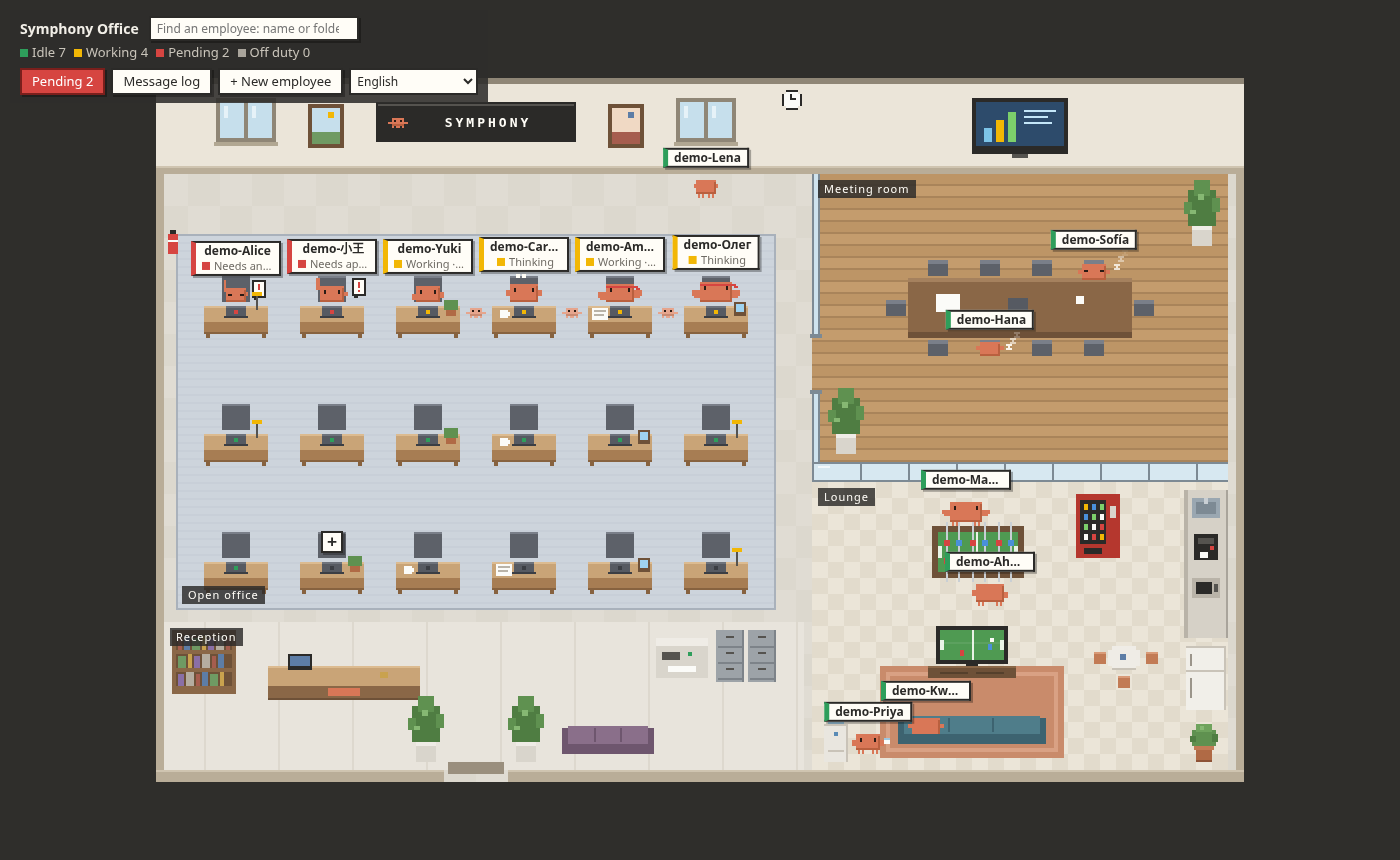
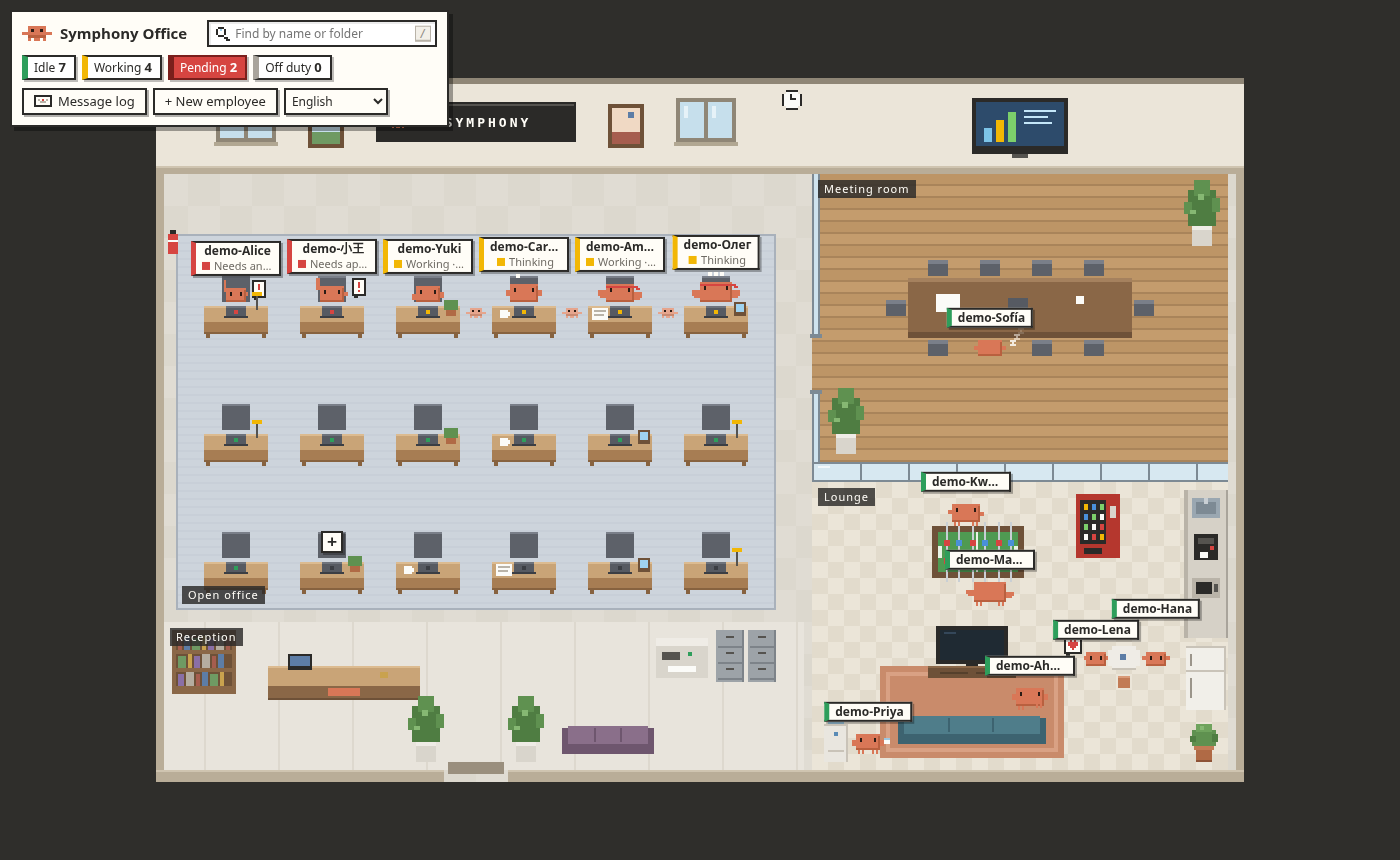
Give the HUD the office's pixel style, with state chips
- The HUD is a notice board like the name tags and cards: cream panel,
  dark border, hard shadow, the logo from the sign beside the title
- The counts by state are chips in the state colors; a click lights those
  employees up (the rest dims), a second click or Esc lets go
- While asks wait, the pending chip turns red, blinks and opens them; it
  replaces the separate pending button (its text key is gone)
- The search box gets a pixel magnifier and a "/" key hint, and a shorter
  placeholder in every language; the message log button gets a pixel
  envelope
- Tests: TestI18n opens the asks from the red chip, TestIdle lights up the
  idle employees with their chip
- Docs: CLAUDE.md, the 10 READMEs and a new office screenshot

diff --git a/web/office.html b/web/office.html
@@ -13,18 +13,35 @@
   body:lang(ko) { font-family:system-ui, "Apple SD Gothic Neo", "Malgun Gothic", "Noto Sans CJK KR", sans-serif; }
   canvas#office { position:fixed; inset:0; width:100vw; height:100vh; image-rendering:pixelated; }
   #labels { position:fixed; inset:0; pointer-events:none; }
-  #hud { position:fixed; top:10px; left:10px; z-index:3; background:rgba(47,46,43,.88); padding:6px 10px 8px; }
-  #hud h1 { margin:0; font-size:14px; font-weight:700; }
-  #hud .stats { margin-top:2px; color:#c9c4ba; }
-  #hud .btns { margin-top:6px; display:flex; gap:6px; flex-wrap:wrap; }
-  #hud select.lang { font:inherit; font-size:12px; background:#fffdf7; color:#2b2a28; border:2px solid #2b2a28; padding:0 2px; cursor:pointer; }
-  #hud .note { margin-top:6px; max-width:420px; color:#f0c674; line-height:1.5; }
+  /* the HUD: a notice board in the office's own pixel style */
+  #hud { position:fixed; top:10px; left:10px; z-index:3; background:#fffdf7; color:#2b2a28; border:2px solid #2b2a28;
+    box-shadow:4px 4px 0 rgba(0,0,0,.35); padding:8px 10px 10px; }
+  #hud .top { display:flex; align-items:center; gap:8px; }
+  #hud .logo { width:30px; height:15px; flex:none; image-rendering:pixelated; }
+  #hud h1 { margin:0 8px 0 0; font-size:15px; font-weight:800; white-space:nowrap; }
+  /* counts by state, as chips in the state colors; a click on one lights up those employees */
+  #hud .stats { margin-top:8px; display:flex; gap:6px; flex-wrap:wrap; color:#6f6b64; }
+  #hud .chip { font:inherit; white-space:nowrap; font-size:12px; line-height:1.6; cursor:pointer; background:#fff; color:#2b2a28; border:2px solid #2b2a28;
+    border-left:6px solid var(--c); padding:0 8px 0 6px; box-shadow:2px 2px 0 rgba(0,0,0,.25); }
+  #hud .chip b { font-size:13px; }
+  #hud .chip:hover { background:#f2efe8; }
+  #hud .chip.on { background:#2b2a28; color:#fffdf7; box-shadow:none; transform:translate(2px, 2px); }
+  #hud .chip.hot { background:#d64541; color:#fff; border-color:#7a1f1c; animation:nudge 1s steps(1) infinite; } /* asks wait for you */
+  @keyframes nudge { 50% { background:#e8605c; } }
+  #hud .btns { margin-top:8px; display:flex; gap:6px; flex-wrap:wrap; }
+  #hud select.lang { width:104px; font:inherit; font-size:12px; background:#fffdf7; color:#2b2a28; border:2px solid #2b2a28; padding:0 2px;
+    cursor:pointer; box-shadow:2px 2px 0 rgba(0,0,0,.3); }
+  #hud .note { margin-top:8px; max-width:420px; padding:4px 8px; background:#fff3cf; border:2px solid #c9961a; color:#6b4a00; line-height:1.5; }
+  .ico { display:inline-block; vertical-align:-1px; margin-right:6px; background:no-repeat center / contain; image-rendering:pixelated; }
+  .ico.mail { width:18px; height:12px; background-image:var(--ico-mail); }
   /* the search box, beside the title: matches show in a list below it, the rest of the office dims */
-  #hud .top { display:flex; align-items:center; gap:10px; }
-  #hud .find { position:relative; }
-  #find { width:210px; box-sizing:border-box; font:inherit; font-size:12px; background:#fffdf7; color:#2b2a28; border:2px solid #2b2a28;
-    padding:2px 6px; box-shadow:2px 2px 0 rgba(0,0,0,.3); }
+  #hud .find { position:relative; flex:1; min-width:196px; margin-left:4px; }
+  #find { width:100%; box-sizing:border-box; font:inherit; font-size:12px; color:#2b2a28; border:2px solid #2b2a28; padding:3px 26px;
+    background:#fff var(--ico-find) no-repeat 7px center / 14px 14px; box-shadow:inset 2px 2px 0 rgba(0,0,0,.08); image-rendering:pixelated; }
   #find:focus { outline:none; border-color:#f2b705; }
+  #hud .key { position:absolute; right:6px; top:50%; transform:translateY(-50%); pointer-events:none; font:11px/1.25 ui-monospace, monospace;
+    color:#8a867e; background:#f2efe8; border:1px solid #b9b3a8; border-bottom-width:2px; padding:0 4px; }
+  #find:focus + .key, #find:not(:placeholder-shown) + .key { display:none; } /* the shortcut, while the box is idle */
   #find-list { position:absolute; z-index:1; left:0; top:calc(100% + 4px); min-width:240px; max-width:380px; background:#fffdf7; color:#2b2a28;
     border:2px solid #2b2a28; box-shadow:4px 4px 0 rgba(0,0,0,.35); }
   #find-list[hidden] { display:none; }
@@ -32,12 +49,10 @@
   #find-list .hit.on { background:#f2b705; }
   #find-list .hit small { color:#6f6b64; margin-left:8px; }
   #find-list .none { padding:2px 8px; color:#8a867e; }
-  #hud .note code { display:block; margin-top:2px; padding:2px 6px; background:#1f1e1c; color:#fffdf7; user-select:all; word-break:break-all; }
+  #hud .note code { display:block; margin-top:4px; padding:2px 6px; background:#2b2a28; color:#fffdf7; user-select:all; word-break:break-all; }
   #log { position:fixed; left:16px; bottom:12px; z-index:3; font:12px/1.6 ui-monospace, monospace; color:#a9a49b; max-width:min(560px, calc(100vw - 32px)); pointer-events:none; }
   #log div { white-space:nowrap; overflow:hidden; text-overflow:ellipsis; }
   .dot { display:inline-block; width:8px; height:8px; margin-right:4px; vertical-align:0; }
-  #hud .stats .dot { margin-left:8px; }
-  #hud .stats .dot:first-child { margin-left:0; }
   button.px { background:#fffdf7; color:#2b2a28; border:2px solid #2b2a28; padding:2px 10px; font:inherit; cursor:pointer; box-shadow:2px 2px 0 rgba(0,0,0,.3); }
   button.px.primary { background:#2b2a28; color:#fffdf7; }
   button.px.alert { background:#d64541; color:#fff; border-color:#7a1f1c; }
@@ -124,12 +139,11 @@
 <canvas id="office"></canvas>
 <div id="labels"></div>
 <div id="hud">
-  <div class="top"><h1 data-i18n="office.title"></h1>
-    <div class="find"><input id="find" type="search" autocomplete="off" spellcheck="false" data-i18n-placeholder="search.placeholder" data-i18n-title="search.title"><div id="find-list" hidden></div></div></div>
+  <div class="top"><canvas class="logo" width="10" height="5"></canvas><h1 data-i18n="office.title"></h1>
+    <div class="find"><input id="find" type="search" autocomplete="off" spellcheck="false" data-i18n-placeholder="search.placeholder" data-i18n-title="search.title"><kbd class="key">/</kbd><div id="find-list" hidden></div></div></div>
   <div class="stats" id="stats" data-i18n="office.nobody"></div>
   <div class="btns">
-    <button class="px alert" id="open-asks" hidden></button>
-    <button class="px" id="open-msgs" data-i18n="office.messages"></button>
+    <button class="px" id="open-msgs"><i class="ico mail"></i><span data-i18n="office.messages"></span></button>
     <button class="px" id="new-emp" data-i18n="office.newEmployee" hidden></button>
   </div>
   <div class="note" id="launch-note" hidden></div>
@@ -1207,7 +1221,7 @@ function employeeItem(g, e, now, at) {
   }
   if (face < 0) pose.eyes = 'none'
   const body = online ? CLAWD : GRAY, shade = online ? CLAWD_SHADE : '#8f8a82'
-  const dim = findQ && !matchesFind(e, findQ), ring = (findQ && !dim) || now - (e.foundAt ?? -1e9) < 4000
+  const dim = filtering() && !picked(e), ring = (filtering() && !dim) || now - (e.foundAt ?? -1e9) < 4000
   return { y:y + 10, draw:() => {
     if (dim) g.globalAlpha = 0.3
     if (ring) drawRing(g, x, y, b, now)
@@ -1249,8 +1263,8 @@ function placeLabels(now) {
     setData(el, 'room', e.inside ? e.goal?.room ?? '' : '')
     setData(el, 'spot', e.inside ? e.goal?.id ?? '' : '')
     setData(el, 'moving', e.inside && e.moving ? '1' : '0')
-    const hit = !!findQ && matchesFind(e, findQ)
-    el.classList.toggle('dim', !!findQ && !hit)
+    const hit = filtering() && picked(e)
+    el.classList.toggle('dim', filtering() && !hit)
     el.classList.toggle('match', hit)
     el.classList.toggle('found', now - (e.foundAt ?? -1e9) < 3200)
     const doing = doingText(e)
@@ -1292,6 +1306,12 @@ function placeLabels(now) {
 // under the box; picking one (a click, or Enter for the highlighted one) is the same as clicking that employee.
 const findEl = document.getElementById('find'), findList = document.getElementById('find-list')
 let findQ = '', findSel = 0
+// a state chip in the HUD, clicked: its employees light up too ('idle' | 'busy' | 'waiting' | 'off'), until a second click
+let chipOn = null
+const groupOf = e => !isOnline(e) ? 'off' : e.s.state === 'idle' ? 'idle' : e.s.state === 'waiting' ? 'waiting' : 'busy'
+// with a search or a chip on, the employees they pick out get a ring and the rest dims
+const filtering = () => !!findQ || !!chipOn
+const picked = e => (!findQ || matchesFind(e, findQ)) && (!chipOn || groupOf(e) === chipOn)
 const lower = s => String(s ?? '').toLowerCase()
 // a folder matches by its last part ("symphony"), or by its whole path once the query has a slash in it
 const matchesFind = (e, q) => [e.acc.name, e.s?.title, ...[e.s?.cwd, e.acc.last?.dir].map(d => d && (/[\\/]/.test(q) ? d : base(d)))]
@@ -1333,11 +1353,36 @@ findList.addEventListener('mousedown', ev => { // mousedown, so the box keeps it
   ev.preventDefault()
   pickFound(emps.get(row.dataset.account))
 })
-addEventListener('keydown', ev => { // "/" jumps to the search box
+addEventListener('keydown', ev => { // "/" jumps to the search box; Esc lets go of a state chip
+  if (ev.key === 'Escape' && chipOn) { chipOn = null; renderStats() }
   if (ev.key !== '/' || ev.ctrlKey || ev.metaKey || ev.altKey || !asksModal.hidden || !dlg.hidden) return
   if (/^(INPUT|TEXTAREA|SELECT)$/.test(document.activeElement?.tagName)) return
   ev.preventDefault()
   findEl.focus()
+})
+
+// ================= state chips =================
+// The HUD's counts by state, one chip each in the state's color; the number stands out wherever the language puts it.
+const numbered = (key, n) => t(key, { n:'\u0001' }).split('\u0001').map(esc).join(`<b>${n}</b>`)
+const CHIPS = [['idle', 'idle', 'stats.idle'], ['busy', 'tool', 'stats.working'], ['waiting', 'waiting', 'stats.waiting'], ['off', 'ended', 'stats.offDuty']]
+// While asks wait for you, the pending chip turns red and opens them.
+function renderStats() {
+  const el = document.getElementById('stats')
+  if (!snapshot.accounts.length) { chipOn = null; el.textContent = t('office.nobody'); return }
+  const n = { idle:0, busy:0, waiting:0, off:0 }
+  for (const e of emps.values()) n[groupOf(e)]++
+  el.innerHTML = CHIPS.map(([group, state, key]) => {
+    const hot = group === 'waiting' && snapshot.asks.length > 0
+    return `<button class="chip${hot ? ' hot' : ''}${chipOn === group ? ' on' : ''}" data-group="${group}" style="--c:${STATE_COLOR[state]}" ` +
+      `title="${esc(hot ? t('asks.title', { n:snapshot.asks.length }) : t('stats.focusTitle'))}">${numbered(key, n[group])}</button>`
+  }).join('')
+}
+document.getElementById('stats').addEventListener('click', ev => {
+  const chip = ev.target.closest('.chip')
+  if (!chip) return
+  if (chip.classList.contains('hot')) return openAsks()
+  chipOn = chipOn === chip.dataset.group ? null : chip.dataset.group
+  renderStats()
 })
 
 // ================= data =================
@@ -1392,13 +1437,7 @@ function applySnapshot(snap) {
   renderAsks()
   first = false
 
-  const online = snap.accounts.map(sessionOf).filter(s => s && s.state !== 'ended')
-  const count = (...states) => online.filter(s => states.includes(s.state)).length
-  const stat = (state, key, n) => `${dot(state)}${esc(t(key, { n }))}`
-  document.getElementById('stats').innerHTML = snap.accounts.length
-    ? stat('idle', 'stats.idle', count('idle')) + stat('tool', 'stats.working', count('thinking', 'tool')) +
-      stat('waiting', 'stats.waiting', count('waiting')) + stat('ended', 'stats.offDuty', snap.accounts.length - online.length)
-    : esc(t('office.nobody'))
+  renderStats()
   if (cardFor) showCard(cardFor)
   if (!msgsPanel.hidden) renderMessages()
   if (!findList.hidden) renderFind()
@@ -1425,14 +1464,10 @@ function renderAsks() {
   if (asksFilter && asks.some(a => a.session === asksFilter)) asks = asks.filter(a => a.session === asksFilter)
   syncCards(document.getElementById('asks'), asks, askWho)
   document.getElementById('asks-title').textContent = t('asks.title', { n:snapshot.asks.length })
-  const btn = document.getElementById('open-asks')
-  btn.hidden = !snapshot.asks.length
-  btn.textContent = t('asks.button', { n:snapshot.asks.length })
   if (!snapshot.asks.length) asksModal.hidden = true
 }
 function openAsks(session = null) { asksFilter = session; renderAsks(); if (snapshot.asks.length) asksModal.hidden = false }
 document.getElementById('asks-later').onclick = () => { asksModal.hidden = true }
-document.getElementById('open-asks').onclick = () => openAsks()
 asksModal.addEventListener('click', ev => { if (ev.target === asksModal) asksModal.hidden = true })
 
 // ================= message log =================
@@ -1677,6 +1712,14 @@ for (const [key, text] of [['work', t('room.work')], ['meeting', t('room.meeting
   roomEls[key] = el
 }
 rooms.sign = {}
+// the HUD's pixel art, drawn with the office's own helpers: the logo from the sign, a magnifier, an envelope
+drawMini(document.querySelector('#hud .logo').getContext('2d'), 0, 0, CLAWD, CLAWD_SHADE)
+const pixelArt = (w, h, draw) => { const c = document.createElement('canvas'); c.width = w; c.height = h; draw(c.getContext('2d')); return `url(${c.toDataURL()})` }
+const MAGNIFIER = ['.XXX...', 'X.o.X..', 'X...X..', 'X...X..', '.XXX...', '....XX.', '.....XX']
+document.documentElement.style.setProperty('--ico-find', pixelArt(7, 7, g => MAGNIFIER.forEach((row, y) => [...row].forEach((c, x) => {
+  if (c !== '.') rect(g, x, y, 1, 1, c === 'X' ? '#2b2a28' : '#9fd3f0')
+}))))
+document.documentElement.style.setProperty('--ico-mail', pixelArt(9, 6, g => drawEnvelope(g, 0, 0)))
 const addBtn = document.createElement('button')
 addBtn.className = 'seat-add'
 addBtn.textContent = '+'

diff --git a/e2e/idle_test.go b/e2e/idle_test.go
@@ -125,6 +125,22 @@ func TestIdle(t *testing.T) {
 	}
 	screenshot(t, office, "idle-wander.png")
 
+	// the idle chip in the HUD lights up the idle ones and dims alice, who works; a second click lets go
+	do(t, office, 10*time.Second, chromedp.Click(chromedp.CSS(`#stats .chip[data-group=idle]`)))
+	waitUntil(t, 10*time.Second, "the idle chip lights up the idle employees", func() bool {
+		all := tags()
+		for _, n := range idle {
+			if !strings.Contains(all[n].Classes, "match") {
+				return false
+			}
+		}
+		return strings.Contains(all["alice"].Classes, "dim") && strings.Contains(all["gina"].Classes, "dim")
+	}, show)
+	do(t, office, 10*time.Second, chromedp.Click(chromedp.CSS(`#stats .chip[data-group=idle]`)))
+	waitUntil(t, 10*time.Second, "a second click on the chip lights everyone again", func() bool {
+		return !strings.Contains(tags()["alice"].Classes, "dim")
+	}, show)
+
 	// ---------- 3. a click calls bob back: his card opens, he walks to his desk and stays there ----------
 	clickLabel(t, office, b.account("bob").ID)
 	do(t, office, 10*time.Second, chromedp.WaitVisible(chromedp.CSS(`#card`)))

diff --git a/e2e/i18n_test.go b/e2e/i18n_test.go
@@ -104,7 +104,10 @@ func checkOffice(t *testing.T, b *testBridge, browser context.Context, lang stri
 	}
 	read()
 	screenshot(t, office, "i18n-"+lang+"-asks.png")
-	do(t, office, 10*time.Second, chromedp.Click(chromedp.CSS(`#asks-later`)), chromedp.Click(chromedp.CSS(`#open-msgs`)), chromedp.WaitVisible(chromedp.CSS(`#msgs-panel`)))
+	// "Later" closes the popup; the red pending chip in the HUD opens it again
+	do(t, office, 10*time.Second, chromedp.Click(chromedp.CSS(`#asks-later`)), chromedp.WaitNotVisible(chromedp.CSS(`#asks-modal`)),
+		chromedp.Click(chromedp.CSS(`#stats .chip.hot[data-group=waiting]`)), chromedp.WaitVisible(chromedp.CSS(`#asks-modal`)),
+		chromedp.Click(chromedp.CSS(`#asks-later`)), chromedp.Click(chromedp.CSS(`#open-msgs`)), chromedp.WaitVisible(chromedp.CSS(`#msgs-panel`)))
 	read()
 	do(t, office, 10*time.Second, chromedp.Click(chromedp.CSS(`#msgs-panel .close`)))
 	for _, name := range []string{"bob", "carol"} { // an online card and an offline one

diff --git a/CLAUDE.md b/CLAUDE.md
@@ -22,7 +22,7 @@ The bridge is Go (standard library only; the e2e tests also use chromedp), the m
 - `web/`: `office.html` (`/`, the pixel office), `approve.html` (`/approve`, a simpler approval page), `asks.js` (the ask cards both share), `i18n.js` (language choice, `t()`, the language picker) and `locales/<lang>.json` (the pages' translations), all built into the bridge binary.
 - Translations: 10 languages (en, zh-CN, zh-TW, ja, ko, es, fr, de, pt-BR, ru), English is the fallback. Every catalog has the same keys as its `en.json` and the same `{placeholders}`, which `go test ./internal/i18n/` checks. User-visible text never sits in code: the pages use `t('key')` or `data-i18n`, the bridge's log lines use `i18n.T`, and the bridge sends codes to the page. Code comments are English.
 - The office: a proper company layout, with an open office (rows of 6 desks, at least 3 rows, full rows even for a small team, more rows as it grows), a glass meeting room (its door faces the corridor), a lounge (counter, fridge, vending machine, foosball, a TV in front of the sofa, a round table, a water cooler) and a reception; each account has a fixed desk; state colors are idle green, working yellow, waiting for an approval or answer red, off duty gray; size follows the model (haiku < sonnet < opus < fable), muscles follow the effort (a red headband at max); messages between sessions get a flying envelope, a bubble and the message log; pending asks open a popup and are handled right there.
-- Idle life (`office.html`, "idle life"): an idle employee stays at its desk for 20 seconds (phone or games), then wanders: TV on the lounge sofa, coffee, the vending machine, the water cooler, a window, the bookshelf, the printer, minding reception, or in pairs foosball, tag or a chat at the round table; from 2.5 minutes it naps (mostly hiding in the meeting room) and wakes now and then. It all counts from the session's `stateSince`, and pairs form on the clock, so a reload changes nothing. Work or a pending ask sends it back to its desk; so does a click on it (its card opens too), and then it stays there until its next turn. Employees walk on a small graph of walkways and spots (`buildPlaces`); away from the desk the name tag shows just the name and moves out of the way of other tags. The search box beside the title finds employees by name, session name or folder (`/` focuses it); picking one is the same as clicking it.
+- Idle life (`office.html`, "idle life"): an idle employee stays at its desk for 20 seconds (phone or games), then wanders: TV on the lounge sofa, coffee, the vending machine, the water cooler, a window, the bookshelf, the printer, minding reception, or in pairs foosball, tag or a chat at the round table; from 2.5 minutes it naps (mostly hiding in the meeting room) and wakes now and then. It all counts from the session's `stateSince`, and pairs form on the clock, so a reload changes nothing. Work or a pending ask sends it back to its desk; so does a click on it (its card opens too), and then it stays there until its next turn. Employees walk on a small graph of walkways and spots (`buildPlaces`); away from the desk the name tag shows just the name and moves out of the way of other tags. The HUD (top left) is a notice board in the same pixel style: the logo and title, the search box, which finds employees by name, session name or folder (`/` focuses it; picking one is the same as clicking it), chips with the counts by state (a click lights those employees up, a second click or Esc lets go; while asks wait, the pending chip turns red and opens them), the message log, new employee and the language picker.
 - Starting sessions from the page: the "+" on an empty desk hires a new employee; "Start work" on an off-duty employee's card brings them back (last folder and options filled in, same seat). The bridge starts claude in a tmux session (`sym-<id>`) in that folder with the account's token, the bridge's address and the page's language (`SYMPHONY_LANG`); the mod is the installed one (`-mod` development mode adds `--plugin-dir`); the bridge answers "trust this folder" for new folders. The bridge checks the mod with `claude plugin list --json` (`Mod` in `launch.go`); without it, starting from the page is off and the page shows the install command (reload after installing, no bridge restart).
 - The bridge only accepts this machine's Host and refuses writes that other sites send through the browser (the launch endpoint runs commands on this machine). The pages have no login yet; don't bind to a non-local address.
 - `cmd/bridge`, `cmd/demo` (creates demo accounts and made-up activity). `e2e/`: end-to-end acceptance with real Claude sessions.

diff --git a/README.ru.md b/README.ru.md
@@ -10,7 +10,7 @@
 
 - **Подтверждения в браузере**: запросы разрешений (запуск команд, правка файлов) и вопросы AskUserQuestion приходят на веб-страницу. Если bridge не запущен или не знает учётную запись, сеанс, как обычно, спрашивает в терминале и никогда не зависает.
 - **Пиксельный офис**: каждый сеанс — это сотрудник со своим постоянным местом. Зелёный — без дела, жёлтый — работает, красный — ждёт вашего разрешения или ответа, серый — не на работе. Сотрудники без дела сначала сидят на месте в телефоне или играют, потом идут гулять по офису: смотрят телевизор на диване в зоне отдыха, играют в настольный футбол и в догонялки, болтают за круглым столом, наливают кофе, смотрят в окно; со временем уходят вздремнуть, чаще всего прячутся в переговорной. Размер персонажа зависит от модели, а мускулатура — от глубины размышлений.
-- **Найти и позвать обратно**: щёлкните по сотруднику без дела — он вернётся на своё место и будет ждать там следующей задачи; поле поиска рядом с заголовком находит сотрудников по имени или папке (клавиша `/` переводит в него).
+- **Найти и позвать обратно**: щёлкните по сотруднику без дела — он вернётся на своё место и будет ждать там следующей задачи; поле поиска рядом с заголовком находит сотрудников по имени или папке (клавиша `/` переводит в него), а щелчок по счётчику под заголовком (без дела, работают, ожидают, не на работе) выделяет всех сотрудников в этом состоянии.
 - **Сообщения между сеансами**: когда сеансы пишут друг другу (SendMessage), через офис пролетает конверт, а сами сообщения сохраняются в журнале сообщений.
 - **Запуск сеансов со страницы**: нажмите «+» на свободном месте, чтобы нанять нового сотрудника, и выберите папку, модель, глубину размышлений и режим разрешений; нажмите «За работу» на карточке сотрудника, который не на работе, — и он вернётся на своё место.
 - **10 языков**: English, 简体中文, 繁體中文, 日本語, 한국어, Español, Français, Deutsch, Português (Brasil) и Русский. Страница берёт язык браузера, а в её левом верхнем углу есть переключатель языка; сообщения bridge выводятся на языке системы (или на заданном через `-lang`), а сообщения mod — на языке страницы, с которой запустили сеанс.

diff --git a/README.fr.md b/README.fr.md
@@ -10,7 +10,7 @@ Réunissez une équipe de sessions Claude Code dans un bureau en pixel art : voy
 
 - **Approbations dans le navigateur** : les demandes d’autorisation (exécuter des commandes, modifier des fichiers) et les questions AskUserQuestion arrivent dans la page web. Si le bridge ne tourne pas ou ne connaît pas le compte, la session revient au terminal comme d’habitude et ne reste jamais bloquée.
 - **Un bureau en pixel art** : chaque session est un employé à un poste fixe. Vert : disponible ; jaune : occupé ; rouge : attend votre autorisation ou votre réponse ; gris : hors service. Les employés désœuvrés traînent d’abord à leur poste avec leur téléphone ou leurs jeux, puis partent se promener : télé sur le canapé de l’espace détente, baby-foot, partie de chat, discussion à la table ronde, café, coup d’œil par la fenêtre ; au bout d’un moment, ils font la sieste, souvent cachés dans la salle de réunion. La taille du personnage dépend du modèle, et ses muscles de l’effort de réflexion.
-- **Retrouver quelqu’un et le rappeler** : cliquez sur un employé disponible et il retourne à son poste (il y reste jusqu’à sa prochaine tâche) ; le champ de recherche à côté du titre trouve les employés par nom ou par dossier (touche `/` pour y aller).
+- **Retrouver quelqu’un et le rappeler** : cliquez sur un employé disponible et il retourne à son poste (il y reste jusqu’à sa prochaine tâche) ; le champ de recherche à côté du titre trouve les employés par nom ou par dossier (touche `/` pour y aller), et un clic sur un compteur sous le titre (disponible, occupé, en attente, hors service) fait ressortir tous les employés dans cet état.
 - **Messages entre sessions** : quand des sessions s’envoient des messages (SendMessage), une enveloppe traverse le bureau, et le journal des messages les conserve.
 - **Démarrer des sessions depuis la page** : cliquez sur le « + » d’un poste libre pour embaucher un nouvel employé, puis choisissez le dossier, le modèle, l’effort de réflexion et le mode d’autorisation ; cliquez sur « Au travail ! » dans la fiche d’un employé hors service pour le faire revenir à son poste.
 - **10 langues** : English, 简体中文, 繁體中文, 日本語, 한국어, Español, Français, Deutsch, Português (Brasil) et Русский. La page suit la langue de votre navigateur et propose un sélecteur de langue en haut à gauche ; les messages du bridge suivent la langue de votre système (ou `-lang`), et ceux du mod suivent la page qui a démarré la session.

diff --git a/README.es.md b/README.es.md
@@ -10,7 +10,7 @@ Pon a trabajar a un equipo de sesiones de Claude Code en una oficina en pixel ar
 
 - **Aprobaciones en el navegador**: las solicitudes de permiso (para ejecutar comandos o editar archivos) y las preguntas de AskUserQuestion llegan a la página web. Si el bridge no está en marcha o no reconoce la cuenta, la sesión vuelve a la terminal como siempre y nunca se queda colgada.
 - **Una oficina en pixel art**: cada sesión es un empleado con su propio puesto fijo. El verde indica que está libre; el amarillo, que está trabajando; el rojo, que espera tu aprobación o tu respuesta, y el gris, que está fuera de servicio. Si no tienen nada que hacer, primero se quedan en su puesto con el teléfono o los videojuegos y luego se van de paseo: ven la tele en el sofá de la zona de descanso, juegan al futbolín o a pillar, charlan en la mesa redonda, se sirven un café o miran por la ventana; al rato se echan una siesta, casi siempre escondidos en la sala de reuniones. El tamaño del personaje depende del modelo, y sus músculos, del esfuerzo de razonamiento.
-- **Encuentra a cualquiera y llámalo**: haz clic en un empleado libre y volverá a su puesto (y se quedará allí hasta su siguiente tarea); el buscador junto al título encuentra empleados por nombre o carpeta (pulsa `/` para ir a él).
+- **Encuentra a cualquiera y llámalo**: haz clic en un empleado libre y volverá a su puesto (y se quedará allí hasta su siguiente tarea); el buscador junto al título encuentra empleados por nombre o carpeta (pulsa `/` para ir a él), y un clic en un contador bajo el título (libre, trabajando, pendiente, fuera de servicio) resalta a todos los que están en ese estado.
 - **Mensajes entre sesiones**: cuando las sesiones se envían mensajes (SendMessage), un sobre cruza la oficina volando y el registro de mensajes los guarda.
 - **Abre sesiones desde la página**: haz clic en el "+" de un puesto vacío para contratar a alguien nuevo y elige la carpeta, el modelo, el esfuerzo de razonamiento y el modo de permisos; en la ficha de alguien que está fuera de servicio, haz clic en "A trabajar" para que vuelva a su mismo puesto.
 - **10 idiomas**: English, 简体中文, 繁體中文, 日本語, 한국어, Español, Français, Deutsch, Português (Brasil) y Русский. La página usa el idioma de tu navegador y tiene un selector de idioma en la esquina superior izquierda; los mensajes del bridge usan el idioma de tu sistema (o el que indiques con `-lang`), y los del mod, el de la página que abrió la sesión.

diff --git a/README.ko.md b/README.ko.md
@@ -10,7 +10,7 @@ Claude Code 세션들을 한 팀으로 꾸려 픽셀 아트 사무실에 앉혀 
 
 - **브라우저에서 승인**: 권한 승인(명령 실행, 파일 수정)과 AskUserQuestion 질문이 웹 페이지로 넘어옵니다. bridge가 꺼져 있거나 계정을 알아보지 못하면 세션은 평소처럼 터미널에서 처리하므로, 멈춰 버리는 일은 없습니다.
 - **픽셀 아트 사무실**: 세션 하나하나가 정해진 자리에 앉은 직원입니다. 초록은 쉬는 중, 노랑은 작업 중, 빨강은 여러분의 승인이나 답변을 기다리는 중, 회색은 퇴근입니다. 쉬는 직원은 처음엔 자리에서 휴대폰을 보거나 게임을 하다가 곧 사무실을 돌아다닙니다. 휴게실 소파에서 TV 보기, 테이블 축구, 술래잡기, 원탁에서 수다, 커피, 창밖 구경을 하고, 한참 지나면 낮잠을 자러 가는데 주로 회의실에 숨어서 잡니다. 캐릭터의 덩치는 모델을, 근육은 사고 강도를 따라갑니다.
-- **찾아서 바로 불러오기**: 쉬는 직원을 클릭하면 자기 자리로 돌아가 다음 일이 올 때까지 기다립니다. 제목 옆 검색창에서 이름이나 폴더로 직원을 찾을 수 있습니다(`/` 키로 바로 이동).
+- **찾아서 바로 불러오기**: 쉬는 직원을 클릭하면 자기 자리로 돌아가 다음 일이 올 때까지 기다립니다. 제목 옆 검색창에서 이름이나 폴더로 직원을 찾을 수 있습니다(`/` 키로 바로 이동). 제목 아래 상태 칩(쉬는 중, 작업 중, 대기 중, 퇴근)을 클릭하면 그 상태의 직원이 모두 강조됩니다.
 - **세션 간 메시지**: 세션끼리 메시지를 보내면(SendMessage) 편지 봉투가 사무실을 가로질러 날아가고, 메시지 기록에 남습니다.
 - **페이지에서 세션 시작**: 빈자리의 "+"를 눌러 새 직원을 뽑고 폴더, 모델, 사고 강도, 권한 모드를 고르세요. 퇴근한 직원의 카드에서 "출근"을 누르면 원래 자리로 돌아옵니다.
 - **10개 언어**: English, 简体中文, 繁體中文, 日本語, 한국어, Español, Français, Deutsch, Português (Brasil), Русский를 지원합니다. 페이지는 브라우저 언어를 따르고 왼쪽 위에서 언어를 바꿀 수 있습니다. bridge 메시지는 시스템 언어(또는 `-lang`)를, mod 메시지는 그 세션을 시작한 페이지의 언어를 따릅니다.

diff --git a/README.de.md b/README.de.md
@@ -10,7 +10,7 @@ Setz ein Team aus Claude-Code-Sitzungen in ein Pixel-Art-Büro: Du siehst auf ei
 
 - **Freigaben im Browser**: Berechtigungsanfragen (Befehle ausführen, Dateien bearbeiten) und Fragen per AskUserQuestion landen auf der Webseite. Läuft die Bridge nicht oder kennt sie das Konto nicht, fällt die Sitzung wie gewohnt aufs Terminal zurück und bleibt nie hängen.
 - **Ein Pixel-Art-Büro**: Jede Sitzung ist ein Mitarbeiter mit festem Platz. Grün ist frei, Gelb bei der Arbeit, Rot wartet auf deine Freigabe oder Antwort, Grau hat Feierabend. Wer nichts zu tun hat, bleibt erst am Platz und hängt am Handy oder zockt, dann zieht er los: Fernsehen auf dem Lounge-Sofa, Kicker, Fangen, ein Plausch am runden Tisch, Kaffee, ein Blick aus dem Fenster; nach einer Weile folgt ein Nickerchen, meist versteckt im Meetingraum. Die Größe der Figur richtet sich nach dem Modell, ihre Muskeln nach dem Denkaufwand.
-- **Jeden finden und zurückrufen**: Klick auf einen freien Mitarbeiter, und er geht an seinen Platz zurück (und bleibt dort bis zu seiner nächsten Aufgabe); das Suchfeld neben dem Titel findet Mitarbeiter nach Name oder Ordner (mit `/` springst du hinein).
+- **Jeden finden und zurückrufen**: Klick auf einen freien Mitarbeiter, und er geht an seinen Platz zurück (und bleibt dort bis zu seiner nächsten Aufgabe); das Suchfeld neben dem Titel findet Mitarbeiter nach Name oder Ordner (mit `/` springst du hinein), und ein Klick auf einen Zähler unter dem Titel (frei, arbeitet, offen, Feierabend) hebt alle in diesem Zustand hervor.
 - **Nachrichten zwischen Sitzungen**: Wenn sich Sitzungen gegenseitig Nachrichten schicken (SendMessage), fliegt ein Briefumschlag durchs Büro, und der Nachrichtenverlauf hält sie fest.
 - **Sitzungen über die Seite starten**: Klick auf das „+“ an einem leeren Platz, um einen neuen Mitarbeiter einzustellen, und wähle Ordner, Modell, Denkaufwand und Berechtigungsmodus; klick bei einem Mitarbeiter, der Feierabend hat, auf „An die Arbeit“, und er kehrt an seinen alten Platz zurück.
 - **10 Sprachen**: English, 简体中文, 繁體中文, 日本語, 한국어, Español, Français, Deutsch, Português (Brasil) und Русский. Die Seite richtet sich nach der Sprache deines Browsers und hat oben links eine Sprachauswahl; die Meldungen der Bridge folgen deiner Systemsprache (oder `-lang`), die des Mods der Seite, die die Sitzung gestartet hat.

diff --git a/README.pt-BR.md b/README.pt-BR.md
@@ -10,7 +10,7 @@ Coloque uma equipe de sessões do Claude Code num escritório em pixel art: veja
 
 - **Aprovações no navegador**: pedidos de permissão (rodar comandos, editar arquivos) e perguntas do AskUserQuestion vão para a página web. Quando o bridge não está rodando ou não reconhece a conta, a sessão volta a usar o terminal, como sempre, e nunca fica travada.
 - **Um escritório em pixel art**: cada sessão é um funcionário numa mesa fixa. Verde: livre; amarelo: trabalhando; vermelho: esperando sua aprovação ou resposta; cinza: fora do expediente. Os funcionários livres primeiro ficam na mesa mexendo no celular ou jogando videogame, depois saem para passear: veem TV no sofá da área de descanso, jogam pebolim ou pega-pega, batem papo na mesa redonda, pegam um café, olham pela janela; depois de um tempo tiram um cochilo, quase sempre escondidos na sala de reunião. O tamanho do personagem acompanha o modelo, e os músculos acompanham o esforço de raciocínio.
-- **Ache qualquer um e chame de volta**: clique num funcionário livre e ele volta para a mesa (e fica lá até a próxima tarefa); a busca ao lado do título encontra funcionários pelo nome ou pela pasta (tecle `/` para ir até ela).
+- **Ache qualquer um e chame de volta**: clique num funcionário livre e ele volta para a mesa (e fica lá até a próxima tarefa); a busca ao lado do título encontra funcionários pelo nome ou pela pasta (tecle `/` para ir até ela), e um clique num contador abaixo do título (livre, trabalhando, pendente, fora do expediente) destaca todos nesse estado.
 - **Mensagens entre sessões**: quando as sessões trocam mensagens (SendMessage), um envelope atravessa o escritório voando, e um histórico de mensagens guarda tudo.
 - **Inicie sessões pela página**: clique no "+" de uma mesa vazia para contratar um novo funcionário e escolha a pasta, o modelo, o esforço de raciocínio e o modo de permissão; clique em "Começar a trabalhar" num funcionário fora do expediente para trazê-lo de volta à mesma mesa.
 - **10 idiomas**: English, 简体中文, 繁體中文, 日本語, 한국어, Español, Français, Deutsch, Português (Brasil) e Русский. A página segue o idioma do seu navegador e tem um seletor de idioma no canto superior esquerdo; as mensagens do bridge seguem o idioma do seu sistema (ou `-lang`), e as do mod seguem a página que iniciou a sessão.

diff --git a/README.md b/README.md
@@ -10,7 +10,7 @@ Put a team of Claude Code sessions in a pixel-art office: see at a glance who is
 
 - **Approvals in the browser**: permission requests (running commands, editing files) and AskUserQuestion questions go to the web page. When the bridge isn't running or doesn't know the account, the session falls back to the terminal as usual and never hangs.
 - **A pixel-art office**: each session is an employee at a fixed desk. Green is idle, yellow is working, red is waiting for your approval or answer, gray is off duty. Idle employees first linger at their desks with their phones or games, then wander off: TV on the lounge sofa, foosball, tag, a chat at the round table, coffee, a look out of the window; after a while they nap, often hiding in the meeting room. The character's size follows the model and its muscles follow the thinking effort.
-- **Find anyone, call them back**: click an idle employee and it heads back to its desk (and stays there until its next turn); the search box next to the title finds employees by name or folder (press `/` to jump to it).
+- **Find anyone, call them back**: click an idle employee and it heads back to its desk (and stays there until its next turn); the search box next to the title finds employees by name or folder (press `/` to jump to it), and clicking a count under the title (idle, working, pending, off duty) lights up everyone in that state.
 - **Messages between sessions**: when sessions message each other (SendMessage), an envelope flies across the office, and a message log keeps them.
 - **Start sessions from the page**: click the "+" on an empty desk to hire a new employee and pick the folder, model, thinking effort and permission mode; click "Start work" on an off-duty employee to bring them back to the same desk.
 - **10 languages**: English, 简体中文, 繁體中文, 日本語, 한국어, Español, Français, Deutsch, Português (Brasil) and Русский. The page follows your browser's language and has a language picker in its top-left corner; the bridge's messages follow your system language (or `-lang`), and the mod's messages follow the page that started the session.
